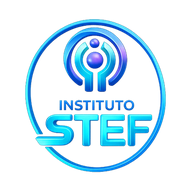
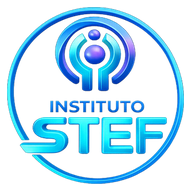
Icone de instalacao maior e com anel redondo

diff --git a/sw.js b/sw.js
@@ -1,6 +1,6 @@
 // Guarda as páginas e imagens para o app abrir mesmo sem internet.
 // Os vídeos são grandes e vêm sempre da internet.
-const CACHE = 'stef-v9';
+const CACHE = 'stef-v10';
 const FILES = ['./', 'index.html', 'i18n-en.js', 'manifest.json',
   ...['logo.png','icon-192.png','icon-512.png','apple-touch-icon.png','entrevista-capa.jpg','saude-comunitaria-capa.jpg'].map(f => 'img/' + f)];
 
